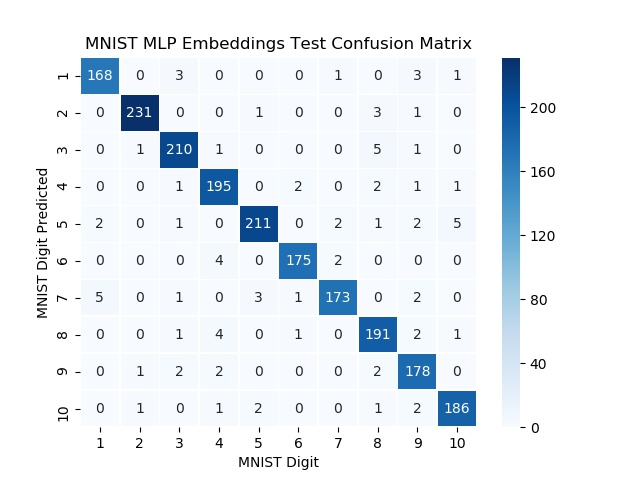
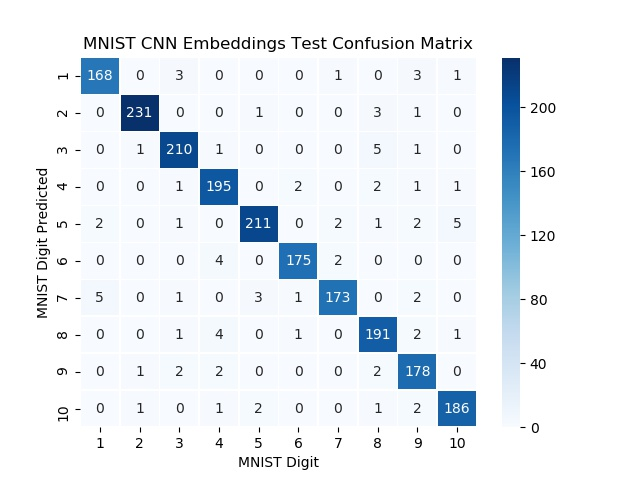
final push for first draft

Changed region(s): [[0.125, 0.0625, 0.75, 0.125]]

diff --git a/run_experiment.py b/run_experiment.py
@@ -17,7 +17,7 @@ def make_boxplot(a, b, title, output):
     import pandas as pd
     import seaborn as sns
     df = pd.DataFrame()
-    df['experiment'] = ['MNIST Image']*10 + ['MNIST MLP Embeddings']*10
+    df['experiment'] = ['MNIST Image']*10 + ['MNIST CNN Embeddings']*10
     df['accuracy'] = a['accuracy'] + b['accuracy']
 
     plot = sns.boxplot(x='experiment', y='accuracy', data=df)
@@ -85,7 +85,7 @@ def main():
         os.path.join(imgdir, 'knn_test_img_confusion.jpg'))
 
     make_confusion_mat(knn_results_vec['test']['confusion'],
-        'MNIST MLP Embeddings Test Confusion Matrix',
+        'MNIST CNN Embeddings Test Confusion Matrix',
         os.path.join(imgdir, 'knn_test_vec_confusion.jpg'))
 
     with open(os.path.join(filedir, 'knn_stats.csv'), 'w') as f:
@@ -106,7 +106,7 @@ def main():
 
     idx = np.where(hierarchical_results_vec['test']['accuracy'] == np.max(hierarchical_results_vec['test']['accuracy']))[0][0]
     make_confusion_mat(hierarchical_results_vec['test']['confusion'][idx],
-        'MNIST MLP Embeddings Test Confusion Matrix (Best Case)',
+        'MNIST CNN Embeddings Test Confusion Matrix (Best Case)',
         os.path.join(imgdir, 'hier_test_vec_confusion.jpg'))
 
     with open(os.path.join(filedir, 'hier_stats.csv'), 'w') as f:

diff --git a/src/models/knn.py b/src/models/knn.py
@@ -12,7 +12,6 @@ import os
 import torch
 
 
-
 def knn(test_mode=False, custom_data=False):
 
     results = {
